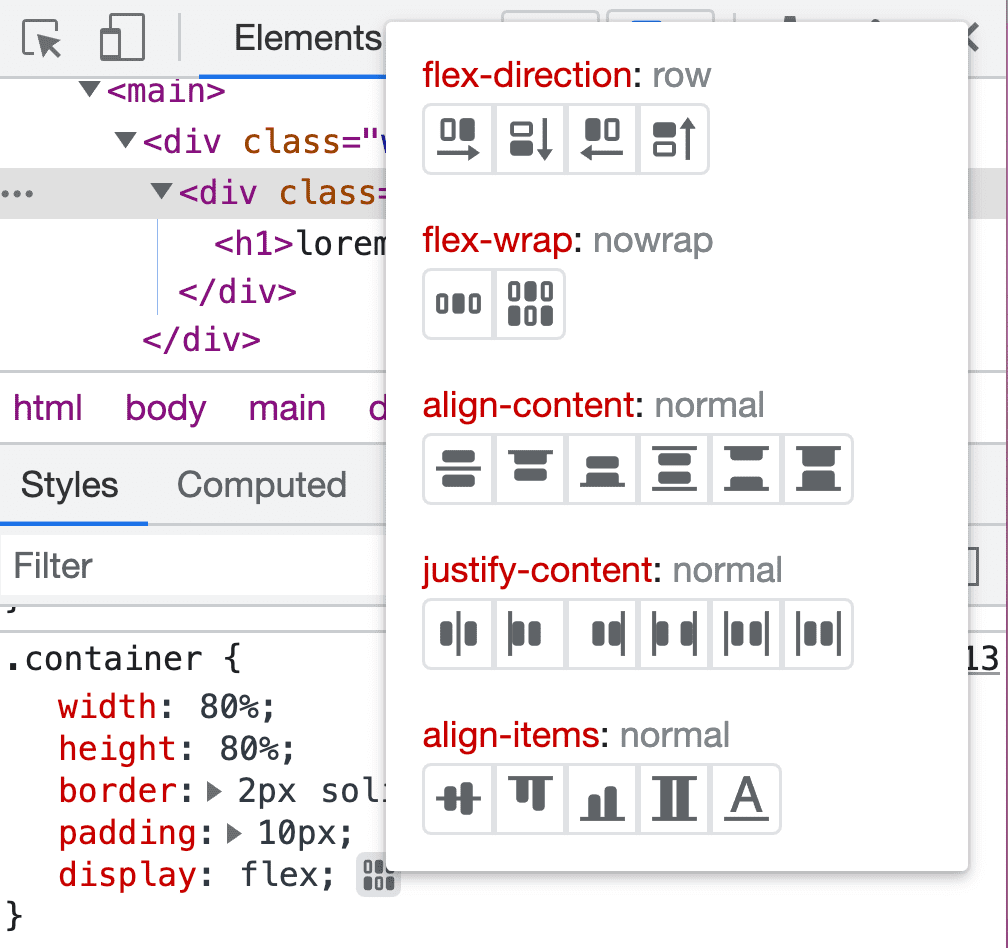
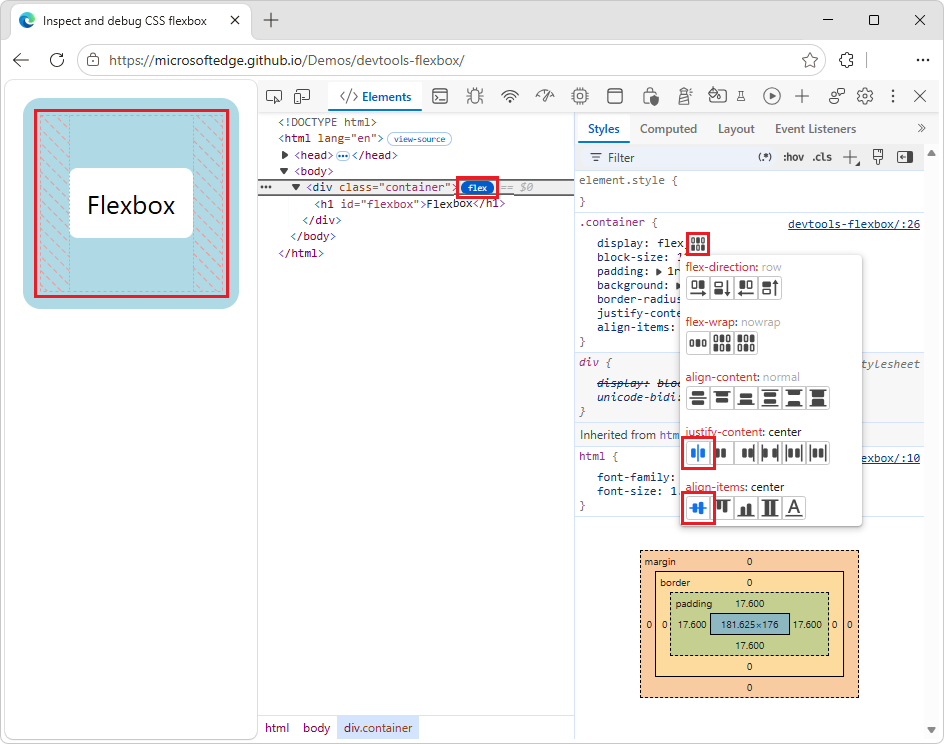
edge pngs/steps

Changed region(s): [[0.0, 0.0, 1.0, 1.0]]

diff --git a/microsoft-edge/devtools/css/flexbox.md b/microsoft-edge/devtools/css/flexbox.md
@@ -6,7 +6,7 @@ ms.author: msedgedevrel
 ms.topic: article
 ms.service: microsoft-edge
 ms.subservice: devtools
-ms.date: 07/27/2026
+ms.date: 11/02/2026
 ---
 # Inspect and debug CSS flexbox layouts
 <!-- https://developer.chrome.com/docs/devtools/css/flexbox -->
@@ -26,36 +26,28 @@ ms.date: 07/27/2026
 
 This guide shows you how to discover flexbox elements on a page, as well as inspect and modify the flexbox layouts in the **Elements** tool.
 
-The screenshots appearing in this article are from this webpage: [Centering a text element with Flexbox](http://jec.fish/demo/css-flexbox). todo Demos repo demo(s) 
-
-todo:
-* \Demos\css-gap-decorations\README.md
-   * CSS Gap Decorations demos -- Draws line decorations within gaps in CSS Grid, **Flexbox**, and Multi-column layouts.
-   * [/css-gap-decorations/]( https://github.com/MicrosoftEdge/Demos/tree/main/css-gap-decorations )
-   * [CSS Gap Decorations demos]( https://microsoftedge.github.io/Demos/css-gap-decorations/ )
-
-todo:
-1. dup the article using upstream demos, links, pngs
-1. convert demos to local
-1. convert pngs to local
-1. convert links to local
-
 
 <!-- ====================================================================== -->
 ## The `flex` badge in the DOM tree
 <!-- Discover CSS flexbox  https://developer.chrome.com/docs/devtools/css/flexbox#discover -->
 
-When an HTML element on a page has `display: flex` or `display: inline-flex` applied to it, a **flex** badge is displayed next to the element in the DOM tree in the **Elements** tool.
+When an HTML element on a page has `display: flex` or `display: inline-flex` applied to it, a **flex** badge (![flex badge](./flexbox-images/flex-badge.png)) is displayed next to the element in the DOM tree in the **Elements** tool.
 
 To view the `flex` badge:
 
-1. Open a webpage, such as the [foo] demo.
+1. Open a webpage, such as the [Inspect and debug CSS flexbox](https://microsoftedge.github.io/Demos/devtools-flexbox/) demo.
 
-1. Right-click the webpage, and then select **Inspect**.
+1. Right-click the **Flexbox** box, and then select **Inspect**.
 
-   DevTools opens, with the **Elements** tool selected.
+   DevTools opens, with the **Elements** tool selected.  Next to the `<div class="container">` element is the `flex` badge (![flex badge](./flexbox-images/flex-badge.png)):
 
-   ![Discover flexbox](./flexbox-images/discover-flexbox.png)
+   ![Flex badge in the DOM](./flexbox-images/flex-badge-in-dom.png)
+
+1. Click the `flex` badge.
+
+   The flexbox overlay is displayed in the webpage:
+
+   ![flex badge selected, and flexbox overlay](./flexbox-images/flex-badge-selected-in-dom.png)
 
 See also:
 * [Inspect, edit, and debug HTML and CSS with the Elements tool](../elements/elements-tool.md)
@@ -71,101 +63,146 @@ For example, you can center the text `<h1>` of the [Center text with CSS Flexbox
 
 To modify layout by using the **flexbox editor**:
 
-1. Open a webpage, such as the [Center text with CSS Flexbox](http://jec.fish/demo/css-flexbox) demo.
+1. Open a webpage, such as the [Inspect and debug CSS flexbox](https://microsoftedge.github.io/Demos/devtools-flexbox/) demo.
 
-1. Right-click the webpage, and then select **Inspect**.
+1. Right-click the **Flexbox** box, and then select **Inspect**.
 
-   DevTools opens, with the **Elements** tool selected.
+   DevTools opens, with the **Elements** tool selected.  In the DOM tree, next to the `<div class="container">` element, the `flex` badge (![flex badge](./flexbox-images/flex-badge.png)) is displayed.
 
-1. Inspect the container element.
+1. Click the `flex` badge (![flex badge](./flexbox-images/flex-badge.png)).
 
-   In the **Styles** tab of the **Elements** tool, the **flexbox editor** button is shown next to the `display: flex` declaration:
+   The flexbox overlay is displayed in the webpage.
 
-   ![flexbox editor button](./flexbox-images/flexbox-editor-button.png) _todo show edge_
+1. In the **Styles** tab of the **Elements** tool, in the `.container` rule, next to the `display: flex;` CSS property, click the **Open flexbox editor** button (![Open flexbox editor button](./flexbox-images/flexbox-editor-button.png)).
 
-1. Click the **flexbox editor** button.
-
-   The **flexbox editor** opens, displaying a list of flexbox properties.  Each property's value options are displayed as icon buttons:
-
-   ![flexbox editor](./flexbox-images/flexbox-editor.png) _todo show edge_
+   The **flexbox editor** opens, displaying a list of flexbox properties.  Each property's value option is displayed as an icon button.
 
 1. Click the `justify-content: center` button.
 
 1. Click the `align-items: center` button.
 
-   The text is now centered on the screen:
+1. Click away from the flexbox editor.
 
-   ![Center the text in its container](./flexbox-images/center-text-in-container.png) _todo show edge_
+   The flexbox editor closes, and the **Flexbox** text is now centered within its container:
 
-   In the **Styles** tab, the `justify-content: center` and `align-items: center` declarations are added.
+   ![Text centered in its container](./flexbox-images/flexbox-editor.png)
+
+   In the **Styles** tab, the `justify-content: center` and `align-items: center` declarations are added:
+
+   ![Added declarations](./flexbox-images/added-properties.png)
+
+1. Click the `flex` badge (![flex badge](./flexbox-images/flex-badge.png)) again.
+
+   The flexbox overlay is removed from the webpage.
+
+See also:
+* [Select an element](./reference.md#select-an-element) in _CSS features reference_.
 
 
 <!-- ====================================================================== -->
 ## Examine the flexbox layout
 <!-- https://developer.chrome.com/docs/devtools/css/flexbox#examine -->
 
-To visualize the layout, hover over the flexbox element in the **Elements** tool.  To toggle the display of the flexbox overlay, click the **flex** badge.
+To momentarily visualize the layout, hover over the flexbox element in the **Elements** tool.  Or, to show or hide the flexbox overlay, click the `flex` badge (![flex badge](./flexbox-images/flex-badge.png)).
+
+In the webpage, the flexbox overlay is displayed over the page element, laid out with dotted lines to show the positions of the element's content.
 
 To examine a flexbox layout:
 
-1. Open a webpage, such as the [Center text with CSS Flexbox](http://jec.fish/demo/css-flexbox) demo.
+1. Open a webpage, such as the [Inspect and debug CSS flexbox](https://microsoftedge.github.io/Demos/devtools-flexbox/) demo.
 
-1. Right-click the webpage, and then select **Inspect**.
+1. Right-click the **Flexbox** box, and then select **Inspect**.
 
-   DevTools opens, with the **Elements** tool selected.
+   DevTools opens, with the **Elements** tool selected.  In the DOM tree, next to the `<div class="container">` element, the `flex` badge (![flex badge](./flexbox-images/flex-badge.png)) is displayed.
 
-   The overlay appears over the element, laid out with dotted lines to show the position of its content and items:
+1. In the DOM tree, hover over the `<div class="container">` element.
 
-   ![Hover over a flexbox element](./flexbox-images/hover-a-flexbox-element.png) _todo show edge_
+   In the webpage, the flexbox overlay appears over the page element (as long as you hover), laid out with dotted lines to show the positions of the element's content:
 
-1. Click the **flex** badge.
+   ![Hover over a flexbox element](./flexbox-images/hover-flexbox-element.png)
 
-   The flexbox overlay is displayed (or hidden):
+1. Click the `flex` badge (![flex badge](./flexbox-images/flex-badge.png)).
 
-   ![Change justify-content to flex-end](./flexbox-images/change-justify-content-flex-end.png) _todo show edge_
+   The flexbox overlay is displayed in the webpage:
 
-1. Change the value to `justify-content: flex-end`.
+   ![The flex badge selected, and the flexbox overlay](./flexbox-images/flex-badge-selected-in-dom.png)
 
-   The overlay is changed accordingly:  _todo: specify_
+1. In the **Styles** tab of the **Elements** tool, in the `.container` rule, next to the `display: flex;` CSS property, click the **Open flexbox editor** button (![Open flexbox editor button](./flexbox-images/flexbox-editor-button.png)).
 
-   ![justify-content: flex-end](./flexbox-images/justify-content-flex-end.png) _todo show edge_
+   The **flexbox editor** opens.
 
-   The icons in the **flex editor** are context-aware.  It _todo: what is "it"?_ changes according to the layout direction.  For example, when you change the `flex-direction` to `column`, the icons in the **flex editor** are rotated accordingly, and the overlay is updated:
+1. In the `justify-content` section, select the `flex-end` button.
 
-   ![Change flex-direction to column](./flexbox-images/change-flex-direction-to-column.png) _todo png for video_
+   In the webpage, the flexbox overlay is changed accordingly:
+
+   ![Change justify-content to flex-end](./flexbox-images/justify-content-flex-end.png)
+
+1. In the `align-items` section, select the `center` button:
+
+   In the webpage, the flexbox overlay is changed accordingly:
+
+   ![align-items: center](./flexbox-images/align-items-center.png)
+
+1. In the `flex-direction` section, select the `column` button.
+
+   The icons in the **flexbox editor** are context-aware.  The flexbox editor's icons change according to the layout direction.
+
+   The icons in the **flex editor** are rotated accordingly.  In the webpage, the flexbox overlay is updated:
+
+   ![Change flex-direction to column](./flexbox-images/flex-direction-column.png)
+
+1. Click the `flex` badge again.
+
+   The flexbox overlay is removed from the webpage.
 
 
 <!-- ====================================================================== -->
 ## Adjust the flexbox overlay color
 <!-- https://developer.chrome.com/docs/devtools/css/flexbox#layout -->
 
-To adjust the flexbox overlay color:
+To adjust the color of the flexbox overlay:
 
-1. Open a webpage, such as the [Center text with CSS Flexbox](http://jec.fish/demo/css-flexbox) demo.
+1. Open a webpage, such as the [Inspect and debug CSS flexbox](https://microsoftedge.github.io/Demos/devtools-flexbox/) demo.
 
-1. Right-click the webpage, and then select **Inspect**.
+1. Right-click the **Flexbox** box, and then select **Inspect**.
 
-   DevTools opens, with the **Elements** tool selected.
+   DevTools opens, with the **Elements** tool selected.  Next to the `<div class="container">` element is the `flex` badge (![flex badge](./flexbox-images/flex-badge.png)).
 
-1. Click the **Layout** tab in the **Elements** tool, and then scroll down to the **Flexbox** section.
+1. In the **Elements** tool, click the **Layout** tab, and then scroll down to the **Flexbox** section.
 
-   All of the flexbox elements are displayed:
+   Each flexbox element of the page is displayed, with a checkbox next to it:
 
-   ![Layout pane](./flexbox-images/layout-pane.png) _todo show edge_
+   ![Layout tab](./flexbox-images/layout-tab.png)
 
-1. You can toggle the overlay of each flexbox element by selecting the checkbox next to it.  It is the same as you click on the badge in the **DOM tree**.
+1. Select the `div.container` checkbox.
 
-1. You can change the color of the overlay, by clicking on the color icon next to it.
+   In the DOM tree, the `flex` badge changes color, to indicate that it's selected.  In the webpage, the flexbox overlay is displayed.
 
-   The color of the `container` overlay changes to black:
+1. Next to the `div.container` checkbox, click the **Choose the overlay color for this element** button.
 
-   ![Change overlay color](./flexbox-images/change-overlay-color.png) _todo show edge_
+   The color editor opens.
 
-1. Click the selector icon next to it.
+1. Select a color, such as dark blue.
 
-   The DOM tree navigates to the flexbox element:
+   The color of the `container` overlay changes to the selected color:
 
-   ![Navigate to a flexbox element](./flexbox-images/nav-flexbox-element.png) _todo png for video_
+   ![Change overlay color](./flexbox-images/overlay-color.png)
+
+1. Next to the **Overlay color** button of `div.container`, select the **Show element in the Elements panel** button (![Show element icon](./flexbox-images/show-element-icon.png)).
+
+   In the DOM tree, the container element is selected.
+
+
+<!-- ====================================================================== -->
+## See also
+<!-- all links in article -->
+
+* [Inspect, edit, and debug HTML and CSS with the Elements tool](../elements/elements-tool.md)
+* [Select an element](./reference.md#select-an-element) in _CSS features reference_.
+
+GitHub:
+* [Inspect and debug CSS flexbox](https://microsoftedge.github.io/Demos/devtools-flexbox/) - demo.
+   * [/devtools-flexbox/](https://github.com/MicrosoftEdge/Demos/tree/main/devtools-flexbox/) - source code.
 
 
 <!-- ====================================================================== -->
